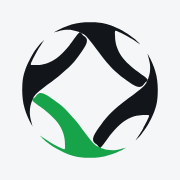
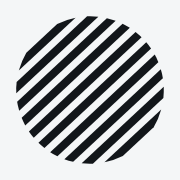
Rebuild the brand mark as the hatched globe from the reference artwork
The mark is now ten parallel bands trimmed to a circle at 43°, fitted against
the supplied emblem by scoring candidate geometry against its pixel mask
(IoU 0.82) instead of eyeballing it. Every band is a real chord band - two
straight edges and two rim arcs - so the silhouette stays a clean disc with no
clip path and no mask, and the same numbers drive the React mark, the share
card, the favicon and the app icons.

Motion follows the shape: the intro combs the bands in along their own length
from one side of the disc to the other, a hover on a link re-lays them, and the
perpetual rotation is gone - a hatch has no quarter-turn symmetry to spin
through, so turning it was only ever a flicker.

diff --git a/src/lib/mark.ts b/src/lib/mark.ts
@@ -1,77 +1,68 @@
 /* ══ mark.ts — the brand mark ═══════════════════════════════════════
-   An aperture ring: four congruent blades set at right angles around an empty
-   centre. Each blade is a wide sweep that narrows into a thin tail and hooks
-   under the next one, so the ring reads as a strip twisting over itself. The
-   blades are drawn; the diamond they leave open in the middle is what you
-   notice first.
+   A hatched globe: ten parallel bands laid across a circle at 43°, each one
+   cut off exactly at the rim, so the silhouette is a clean disc and the stripes
+   do the talking. Nothing here is invented - the angle, the pitch and the band
+   width were fitted against the supplied artwork by scoring candidate geometry
+   against its pixel mask (scratch/stripes-fit.mjs keeps the fitter), and the
+   winning numbers are the ones below: IoU 0.82 against the reference, which is
+   about as close as a JPEG with soft edges allows.
 
-   Traced from the reference artwork rather than invented: the outline was
-   thresholded, simplified and re-smoothed into the thirty points below
-   (scratch/trace.mjs keeps the generator), and the other three blades are this
-   one turned a quarter, a half and three quarters of the way round. That is why
-   the mark is exactly four-fold symmetric - a quarter turn puts it back where
-   it started, which is the rotation the header hover and the intro both use.
+   Every band is a real chord band - two straight edges and two circular arcs -
+   so the mark needs no clip path and no mask. STRIPES are drawn upright (bands
+   horizontal) so the animation can simply grow them along their own length;
+   STRIPES_LEANED has the tilt baked into the coordinates for the places that
+   cannot carry a group transform.
 
-   No plate and no black field. The colour is currentColor with one blade in the
-   brand accent, so the same component reads correctly on paper and on graphite.
+   No plate and no field. The colour is currentColor, so the same component
+   reads correctly on paper and on graphite.
    ══ */
 
-/** One blade, as points relative to the centre of the 100x100 box. */
-const BLADE: [number, number][] = [
-  [-34.76, 2.3], [-31.2, 2.56], [-24.91, 6.42], [-17.23, 12.45], [-9.33, 21.22],
-  [-2.04, 30.85], [2.73, 36.58], [6.6, 38.97], [11.8, 40.53], [17.84, 40.58],
-  [24.65, 38.88], [20.53, 41.18], [15.28, 43.4], [9.55, 45.05], [3.3, 45.83],
-  [-3.56, 45.83], [-9.63, 45.05], [-16.06, 42.96], [-23.69, 39.14], [-30.07, 34.67],
-  [-34.02, 30.9], [-26.17, 35.89], [-17.53, 40.1], [-16.97, 36.93], [-17.53, 31.51],
-  [-19.7, 25.6], [-23.56, 20.18], [-29.94, 14.15], [-38.88, 7.29], [-37.15, 4.77],
-];
+/** Fitted from the reference artwork, on a 100x100 box. The disc is the full
+ *  box; pitch, band width and tilt are the mean of the ten band centres and
+ *  half-max widths read off the reference's perpendicular profile
+ *  (scratch/stripes-profile.mjs keeps the reader). */
+export const ANGLE = 43;
+export const RADIUS = 50;
+export const PITCH = 10.05;
+export const WIDTH = 5.38;
+export const COUNT = 10;
 
-const f = (n: number) => Math.round(n * 100) / 100;
+const f = (n: number) => Math.round(n * 1000) / 1000;
 
-/** Turn a point ring by `deg` about the centre. */
-function spin(pts: [number, number][], deg: number): [number, number][] {
-  if (!deg) return pts;
-  const a = (deg * Math.PI) / 180;
-  const s = Math.sin(a);
-  const c = Math.cos(a);
-  return pts.map(([x, y]) => [f(x * c - y * s), f(x * s + y * c)]);
+/** Signed perpendicular offset of band k from the centre of the disc. */
+export function offset(k: number): number {
+  return (k - (COUNT - 1) / 2) * PITCH;
 }
 
-/** Catmull-Rom through a closed point ring, emitted as cubic beziers. The
- *  tangent at each point eases out to nothing wherever the ring folds back on
- *  itself, so the blade tips stay points instead of overshooting into loops. */
-function outline(pts: [number, number][]): string {
-  const n = pts.length;
-  const len = (a: number[], b: number[]) => Math.hypot(b[0] - a[0], b[1] - a[1]);
-  const tan = (i: number): [number, number] => {
-    const p0 = pts[(i - 1 + n) % n], p1 = pts[i], p2 = pts[(i + 1) % n];
-    const back = len(p0, p1), fwd = len(p1, p2), span = len(p0, p2);
-    const k = Math.max(0, Math.min(1, (span / (back + fwd || 1) - 0.5) / 0.35));
-    return [((p2[0] - p0[0]) / 6) * k, ((p2[1] - p0[1]) / 6) * k];
+/** A band at offset `v`, half `WIDTH/2` across, trimmed to a circle of
+ *  `RADIUS`: out along +u, arc round the rim, back along the far edge, arc
+ *  home. Coordinates are (u along the band, v across it). */
+function band(v: number, rot: number): string {
+  const h = WIDTH / 2;
+  const a = v - h;
+  const b = v + h;
+  const La = Math.sqrt(Math.max(0, RADIUS * RADIUS - a * a));
+  const Lb = Math.sqrt(Math.max(0, RADIUS * RADIUS - b * b));
+  const c = Math.cos(rot);
+  const s = Math.sin(rot);
+  const P = (u: number, w: number) => {
+    const x = u * c - w * s;
+    const y = u * s + w * c;
+    return `${f(x + RADIUS)} ${f(y + RADIUS)}`;
   };
-  const T = pts.map((_, i) => tan(i));
-  let d = `M${f(pts[0][0] + 50)} ${f(pts[0][1] + 50)}`;
-  for (let i = 0; i < n; i++) {
-    const p1 = pts[i], p2 = pts[(i + 1) % n];
-    const cap = len(p1, p2) / 2.4;
-    const limit = (t: [number, number]): [number, number] => {
-      const m = Math.hypot(t[0], t[1]);
-      return cap > 0 && m > cap ? [t[0] * cap / m, t[1] * cap / m] : t;
-    };
-    const t1 = limit(T[i]), t2 = limit(T[(i + 1) % n]);
-    d += `C${f(p1[0] + t1[0] + 50)} ${f(p1[1] + t1[1] + 50)} ${f(p2[0] - t2[0] + 50)} ${f(p2[1] - t2[1] + 50)} ${f(p2[0] + 50)} ${f(p2[1] + 50)}`;
-  }
-  return `${d}Z`;
+  const r = f(RADIUS);
+  return (
+    `M${P(La, a)}A${r} ${r} 0 0 1 ${P(Lb, b)}` +
+    `L${P(-Lb, b)}A${r} ${r} 0 0 1 ${P(-La, a)}Z`
+  );
 }
 
-/** The four blades, in viewBox 0 0 100 100. */
-export const BLADES = [0, 90, 180, 270].map((deg) => outline(spin(BLADE, deg)));
+/** Bands upright, in viewBox 0 0 100 100 — the caller tilts them with a group
+ *  rotation, which keeps `scaleX` free as the reveal animation. */
+export const STRIPES = Array.from({ length: COUNT }, (_, k) => band(offset(k), 0));
 
-/** Unit vectors pointing out through the middle of each blade - where a blade
- *  comes from when the aperture opens, and where it slides back to on hover. */
-const MASS = BLADE.reduce(([ax, ay], [x, y]) => [ax + x / BLADE.length, ay + y / BLADE.length], [0, 0]);
-const MAG = Math.hypot(MASS[0], MASS[1]) || 1;
-export const BLADE_OUT: [number, number][] = [0, 90, 180, 270].map((deg) => {
-  const [x, y] = spin([MASS], deg)[0];
-  return [Math.round((x / MAG) * 1000) / 1000, Math.round((y / MAG) * 1000) / 1000];
-});
+/** The same mark with the tilt already in the coordinates, for renderers that
+ *  cannot carry a transform on the group. */
+export const STRIPES_LEANED = Array.from({
+  length: COUNT,
+}, (_, k) => band(offset(k), (-ANGLE * Math.PI) / 180));

diff --git a/src/components/ui.tsx b/src/components/ui.tsx
@@ -4,61 +4,44 @@ import { useState } from "react";
 import type { ReactNode, ImgHTMLAttributes } from "react";
 import { motion } from "framer-motion";
 import { tileBG, initials, hash, LEVEL_LABEL } from "../lib/util";
-import { BLADES, BLADE_OUT } from "../lib/mark";
+import { STRIPES, ANGLE } from "../lib/mark";
 import type { Level } from "../lib/types";
 
-/* An aperture: four congruent blades set at right angles around an empty
-   centre, traced from the reference artwork (src/lib/mark.ts keeps the outline
-   and how it was made). No plate and no black field - the mark sits directly on
-   whatever page it is on.
+/* A hatched globe: ten parallel bands laid across a circle and trimmed to its
+   rim, fitted against the reference artwork (src/lib/mark.ts keeps the numbers
+   and how they were measured). No plate and no black field - the mark sits
+   directly on whatever page it is on, in currentColor, so one component is
+   correct on a cream page and on a near-black one.
 
-   The colour is `currentColor` on three blades and the brand green on the
-   leading one, so one component is correct on a cream page and on a near-black
-   one. It is exactly four-fold symmetric, so a quarter of a turn puts it back
-   where it started; that is the rotation the hover and the intro use, and it is
-   why the blades appear to trade places under a cursor.
-
-   `draw` is the entrance: each blade slides in from just outside its own side of
-   the ring and swings into place while the whole aperture turns a quarter.
-   `live` is the idle motion - a slow, continuous rotation - and the inner group
-   answers a hover with a quarter of the same turn. Reduced-motion visitors get
-   the finished, still mark, as everywhere else on this site. */
-export function Logo({
-  size = 30,
-  draw = false,
-  live = false,
-}: {
-  size?: number;
-  draw?: boolean;
-  live?: boolean;
-}) {
+   `draw` is the entrance: the bands comb in from one side of the disc to the
+   other, each one growing along its own length, so the hatch is laid down the
+   way it would be drawn. The hover does the same thing in the CSS at the bottom
+   of globals.css. There is deliberately no idle rotation - a hatch has no
+   quarter-turn symmetry to hide behind, and spinning it turns the whole mark
+   into a flicker. Reduced-motion visitors get the finished, still mark, as
+   everywhere else on this site. */
+export function Logo({ size = 30, draw = false }: { size?: number; draw?: boolean }) {
   /* The mark never asks here whether the visitor wants motion: that is
      MotionConfig's `reducedMotion="user"` in Shell, and the CSS media query
-     below for the spin and the hover turn. Asking here used to make the
-     server's HTML and the client's first render disagree about the logo's
-     own transform - a hydration mismatch on every page, for every
-     reduced-motion visitor. */
+     in globals.css for the hover comb. Asking here used to make the server's
+     HTML and the client's first render disagree about the logo's own
+     transform - a hydration mismatch on every page, for every reduced-motion
+     visitor. */
   const anim = draw;
   const easeSilk = [0.22, 1, 0.36, 1] as const;
   return (
-    <svg width={size} height={size} viewBox="0 0 100 100" aria-hidden="true"
-      className={live ? "mark-live" : undefined}>
-      <motion.g
-        initial={anim ? { rotate: -90, scale: 0.84 } : false}
-        animate={{ rotate: 0, scale: 1 }}
-        transition={{ duration: 1.15, ease: easeSilk }}
-        style={{ transformBox: "view-box", transformOrigin: "50px 50px" }}>
-        <g className="mark-turn" style={{ transformBox: "view-box", transformOrigin: "50px 50px" }}>
-          {BLADES.map((d, i) => (
-            <motion.path key={i} d={d}
-              fill={i === 0 ? "var(--color-accent)" : "currentColor"}
-              initial={anim ? { x: BLADE_OUT[i][0] * 16, y: BLADE_OUT[i][1] * 16, opacity: 0, rotate: -18 } : false}
-              animate={{ x: 0, y: 0, opacity: 1, rotate: 0 }}
-              transition={{ delay: 0.1 + i * 0.1, duration: 0.68, ease: easeSilk }}
+    <svg width={size} height={size} viewBox="0 0 100 100" aria-hidden="true">
+      <g transform={`rotate(${-ANGLE} 50 50)`}>
+        <g className="mark-turn">
+          {STRIPES.map((d, i) => (
+            <motion.path key={i} d={d} fill="currentColor"
+              initial={anim ? { scaleX: 0, opacity: 0 } : false}
+              animate={{ scaleX: 1, opacity: 1 }}
+              transition={{ delay: 0.14 + i * 0.058, duration: 0.6, ease: easeSilk }}
               style={{ transformBox: "view-box", transformOrigin: "50px 50px" }} />
           ))}
         </g>
-      </motion.g>
+      </g>
     </svg>
   );
 }

diff --git a/src/app/globals.css b/src/app/globals.css
@@ -586,31 +586,47 @@ input:focus-visible, textarea:focus-visible, select:focus-visible { outline: non
 
 /* ── site splash: one-time intro curtain ─────────────────────────────
    The curtain's own motion (it lifts) is framer-motion's, in Shell.tsx; this
-   rule only places it. The mark inside draws itself - see .mark-live. */
+   rule only places it. The mark inside draws itself - see Logo(). */
 .splash {
   position: fixed; inset: 0; z-index: 95; background: var(--color-paper);
   display: grid; place-items: center; pointer-events: none;
   will-change: transform;
 }
 
-/* the header mark: the whole figure turns slowly while the page is open - the
-   one thing it does when nothing is happening to it - and the inner group
-   answers a hover with a quarter of a turn, which is exactly the spacing
-   between two blades, so it looks like the next one has taken the front.
-   Entrance and the blade sweep-in are framer-motion's, in Logo(). */
-.mark-live { animation: markSpin 34s linear infinite; }
-@keyframes markSpin { to { transform: rotate(360deg); } }
-.mark-turn { transition: transform .62s var(--ease-silk); }
-a:hover .mark-turn, button:hover .mark-turn { transform: rotate(90deg); }
+/* the header mark: it sits still - a hatch has no quarter-turn symmetry to
+   spin through, and rotating one just flickers. What it does instead is answer
+   a hover by re-laying itself: each band collapses along its own length and
+   grows back, one after another from the same side the entrance starts on.
+   Entrance is framer-motion's, in Logo(); this is the hover. */
+.mark-turn > path {
+  transform-box: view-box;
+  transform-origin: 50px 50px;
+}
+a:hover .mark-turn > path, button:hover .mark-turn > path {
+  animation: bandComb .58s cubic-bezier(.22, 1, .36, 1) both;
+}
+a:hover .mark-turn > path:nth-child(2), button:hover .mark-turn > path:nth-child(2) { animation-delay: .05s; }
+a:hover .mark-turn > path:nth-child(3), button:hover .mark-turn > path:nth-child(3) { animation-delay: .1s; }
+a:hover .mark-turn > path:nth-child(4), button:hover .mark-turn > path:nth-child(4) { animation-delay: .15s; }
+a:hover .mark-turn > path:nth-child(5), button:hover .mark-turn > path:nth-child(5) { animation-delay: .2s; }
+a:hover .mark-turn > path:nth-child(6), button:hover .mark-turn > path:nth-child(6) { animation-delay: .25s; }
+a:hover .mark-turn > path:nth-child(7), button:hover .mark-turn > path:nth-child(7) { animation-delay: .3s; }
+a:hover .mark-turn > path:nth-child(8), button:hover .mark-turn > path:nth-child(8) { animation-delay: .35s; }
+a:hover .mark-turn > path:nth-child(9), button:hover .mark-turn > path:nth-child(9) { animation-delay: .4s; }
+a:hover .mark-turn > path:nth-child(10), button:hover .mark-turn > path:nth-child(10) { animation-delay: .45s; }
+@keyframes bandComb {
+  0% { transform: scaleX(1); }
+  34% { transform: scaleX(.05); }
+  100% { transform: scaleX(1); }
+}
 @media (prefers-reduced-motion: reduce) {
-  .mark-live { animation: none; }
-  .mark-turn { transition: none; }
+  a:hover .mark-turn > path, button:hover .mark-turn > path { animation: none; }
 }
 
-/* ── the intro's aperture ───────────────────────────────────────────
-   The curtain opens the way the mark is built: the blades come in from
-   outside the ring and turn a quarter into place (Logo's `draw`), three
-   hairline circles start on the mark's own rim and widen out like an iris,
+/* ── the intro ──────────────────────────────────────────────────────
+   The curtain opens the way the mark is built: the disc arrives, its bands
+   comb in along their own length (Logo's `draw`), three hairline circles
+   start on the mark's own rim and widen outward,
    a soft green bloom swells behind it once, and a hairline rule grows under
    the wordmark before the whole thing lifts.
 

diff --git a/src/components/Shell.tsx b/src/components/Shell.tsx
@@ -23,12 +23,12 @@ function ScrollManager() {
 /* one-time intro curtain: marketing pages only, decided after mount so
    server HTML never carries it.
 
-   The sequence is the brand, not a spinner. The mark is an aperture, so the
-   intro opens like one: the four blades come in from outside the ring and swing
-   a quarter-turn into place (Logo's own `draw` pass), a bloom swells behind them,
-   three hairline circles start on the mark's rim and widen outward like an iris
-   opening (`.iris` in globals.css), the wordmark rises letter by letter, a
-   hairline rule grows under it, and the line of what the site is fades in last.
+   The sequence is the brand, not a spinner. The mark is a hatched globe, so the
+   intro lays it down: the disc fades up, its ten bands comb in one after
+   another along their own length (Logo's own `draw` pass), a bloom swells
+   behind it, three hairline circles start on the mark's rim and widen outward,
+   the wordmark rises letter by letter, a hairline rule grows under it, and the
+   line of what the site is fades in last.
    Everything resolves at about two seconds, and then the curtain lifts - timed
    to read as an arrival and not a wait. Skipped outright for reduced-motion
    visitors and for every route inside the application shell. */
@@ -38,15 +38,15 @@ const WORD = "cyrus";
 const EASE_SILK = [0.22, 1, 0.36, 1] as const;
 const EASE_LIFT = [0.76, 0, 0.24, 1] as const;
 
-/* The iris: three rings that begin at the mark's own rim. The circles are
-   centred in the same 100x100 box the mark is drawn in, so r=46 is where a
-   blade's outer edge lands; only the stroke widens, never the shape. */
+/* The rings: three circles that begin on the mark's own rim and travel
+   outward. They are centred in the same 100x100 box the disc is drawn in, so
+   r=49 is the rim itself; only the stroke widens, never the shape. */
 function Iris({ size }: { size: number }) {
   return (
     <svg className="iris pointer-events-none absolute" width={size} height={size} viewBox="0 0 100 100" aria-hidden="true">
-      <circle cx="50" cy="50" r="46" />
-      <circle cx="50" cy="50" r="46" />
-      <circle cx="50" cy="50" r="46" />
+      <circle cx="50" cy="50" r="49" />
+      <circle cx="50" cy="50" r="49" />
+      <circle cx="50" cy="50" r="49" />
     </svg>
   );
 }
@@ -92,8 +92,8 @@ function Splash({ app }: { app: boolean }) {
           initial={{ y: 0 }} animate={{ y: lift ? "-100%" : 0 }}
           transition={{ duration: .62, ease: EASE_LIFT }}>
           <div className="flex flex-col items-center gap-[18px]">
-            {/* the aperture opens: bloom, then the blades swing in (Logo's
-                `draw`), then the iris widens off the mark's own rim */}
+            {/* the mark is laid down: bloom, then the bands comb in (Logo's
+                `draw`), then the rings travel out from the disc's own rim */}
             <div className="relative grid place-items-center">
               <span className="bloom" />
               <Iris size={104} />

diff --git a/src/lib/ogCard.tsx b/src/lib/ogCard.tsx
@@ -9,8 +9,9 @@ import { ImageResponse } from "next/og";
 import { readFileSync } from "node:fs";
 import { join } from "node:path";
 import type { OgCard as OgCardData } from "@/lib/ogContent";
-/* the brand mark - the same four blades Logo() draws */
-import { BLADES as OG_BLADES } from "@/lib/mark";
+/* the brand mark - the same banded globe Logo() draws, with the tilt already
+   in the coordinates because satori does not lay out an SVG group transform */
+import { STRIPES_LEANED as OG_BANDS } from "@/lib/mark";
 
 const PAPER = "#0e0f10";
 const CREAM = "#17191b";
@@ -69,8 +70,8 @@ function layoutTitle(title: string[]): { lines: string[]; size: number } {
 }
 
 /** The mark from components/ui.tsx, watermarked into the corner. Sized so the
- *  aperture still reads as an aperture - a ring, not an abstract sweep - with
- *  only its outer blade cut by the card's edge. */
+ *  globe still reads as a globe - a full disc of bands, not a sweep - with
+ *  only its outer edge cut by the card's border. */
 function Stamp() {
   return (
     <div
@@ -84,8 +85,8 @@ function Stamp() {
       }}
     >
       <svg width={400} height={400} viewBox="0 0 100 100">
-        {OG_BLADES.map((d, i) => (
-          <path key={i} d={d} fill={i === 0 ? ACCENT : FOAM} opacity={i === 0 ? 0.34 : 0.12} />
+        {OG_BANDS.map((d) => (
+          <path key={d} d={d} fill={FOAM} opacity={0.13} />
         ))}
       </svg>
     </div>
@@ -96,8 +97,8 @@ function Mark() {
   return (
     <div style={{ display: "flex", alignItems: "center", gap: 16 }}>
       <svg width={54} height={54} viewBox="0 0 100 100">
-        {OG_BLADES.map((d, i) => (
-          <path key={i} d={d} fill={i === 0 ? ACCENT : FOAM} />
+        {OG_BANDS.map((d) => (
+          <path key={d} d={d} fill={FOAM} />
         ))}
       </svg>
       <span style={{ fontSize: 33, fontWeight: 800, color: INK, letterSpacing: -0.8 }}>cyrus.ai</span>

diff --git a/src/components/Nav.tsx b/src/components/Nav.tsx
@@ -94,7 +94,7 @@ export default function Nav() {
       <nav className="sticky top-0 z-[60] bg-paper px-4 pt-3 max-[700px]:px-2.5">
         <div className="max-w-[1340px] mx-auto bg-paper/92 backdrop-blur-[16px] saturate-[1.35] border border-liness rounded-full shadow-soft">
           <div className="flex items-center gap-4 h-[62px] pl-4 pr-4 max-[1179px]:gap-3 max-[1023px]:h-[54px] max-[700px]:gap-2.5 max-[700px]:pl-2.5 max-[700px]:pr-2.5">
-            <Link to="/" className="flex items-center gap-3 shrink-0 max-[700px]:gap-2.5"><Logo size={40} draw live /><Brand /></Link>
+            <Link to="/" className="flex items-center gap-3 shrink-0 max-[700px]:gap-2.5"><Logo size={40} draw /><Brand /></Link>
             {/* desktop strip: single tightened row, lg+ only. Below 1280 the
                 one label that will not spare the pixels keeps its short form;
                 from xl the full name comes back. */}
